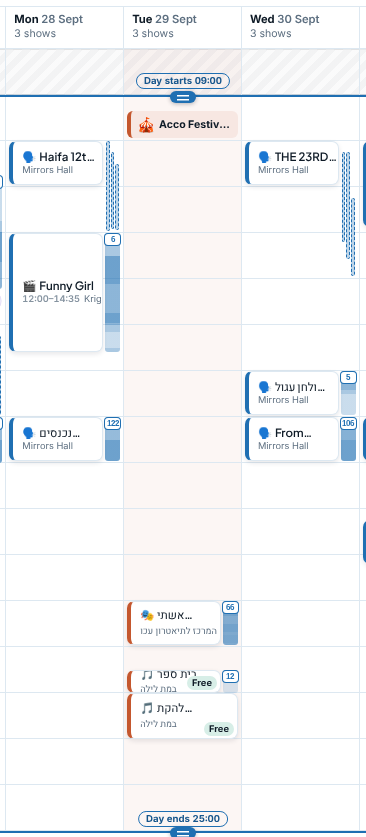
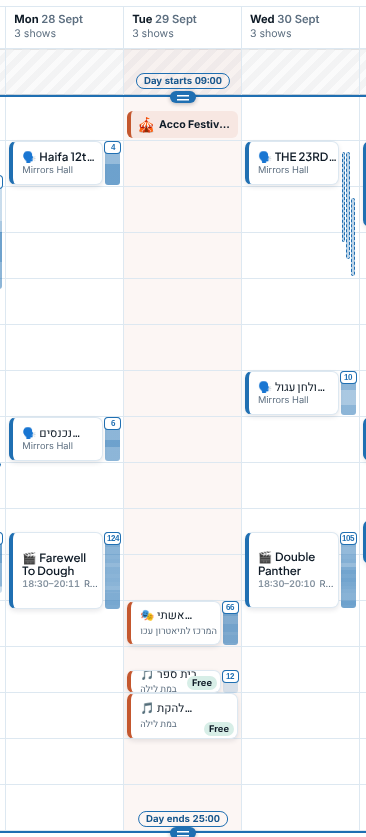
Spread a capped day's shows across its hours
With a low shows-per-day limit the drafter broke ties between equally
scarce shows by the earlier start, so a two-a-day plan came out as 09:30
and 11:30 and nothing after. Each capped day's programme span is now cut
into one part per place, and each run of equally scarce shows fills empty
parts first, then any room left. Scarcity still outranks the spread, and
an early day end remains the reader's own setting.

New leaf 20.22 with its logic case; eight planner goldens re-rendered.

Claude-Session: https://claude.ai/code/session_01TUZcqythbmcUDWeo6Uqzy3

diff --git a/product/requirements/logic/cases/planng-spread-day.20.22.case.js b/product/requirements/logic/cases/planng-spread-day.20.22.case.js
@@ -1,0 +1,87 @@
+"use strict";
+
+// A programme dense enough that the old earliest-first tie-break would fill a
+// short day from the morning alone: a show every ninety minutes from 10:00 to
+// 22:00, every night of the window.
+const START_TIMES = ["10:00", "11:30", "13:00", "14:30", "16:00", "17:30", "19:00", "20:30", "22:00"];
+const NIGHTS = ["2026-10-18", "2026-10-19", "2026-10-20"];
+
+const show = (slug, nights, start) => ({
+  slug,
+  title: slug,
+  duration: 60,
+  venue: "H",
+  venueName: "H",
+  performances: nights.map((date) => ({ date, start, status: "TICKETS_AVAILABLE", soldOut: false })),
+});
+
+const toMin = (hhmm) => {
+  const [h, m] = hhmm.split(":").map(Number);
+  return h * 60 + m;
+};
+
+module.exports = {
+  description: "a day with room for few shows spreads them across its hours",
+  async verify(assert) {
+    const { draftCalendar } = await import("../../../../site/plan/lib/contention.js");
+    const programme = [];
+    START_TIMES.forEach((start, i) => {
+      for (let n = 0; n < 4; n++) programme.push(show(`s${i}-${n}`, NIGHTS, start));
+    });
+    const draft = (shows, extra = {}) =>
+      draftCalendar(shows, {
+        dateStart: NIGHTS[0],
+        dateEnd: NIGHTS[NIGHTS.length - 1],
+        dayStartMin: 9 * 60,
+        dayEndMin: 25 * 60,
+        minGapSameVenue: 0,
+        minGapDifferentVenue: 30,
+        travelMode: "walk",
+        venueCoords: { H: { lat: 31.7806, lng: 35.2226 } },
+        ...extra,
+      });
+    const startsOn = (result, date) =>
+      (result.days.find((d) => d.date === date) || { slots: [] }).slots.map((s) => toMin(s.startTime));
+
+    // Two a day: one in each half of the programme's hours, not both before noon.
+    const two = draft(programme, { maxPerDay: 2 });
+    for (const date of NIGHTS) {
+      const starts = startsOn(two, date);
+      assert.equal(starts.length, 2, `${date} still takes two shows`);
+      assert.ok(starts[0] < toMin("16:00") && starts[1] >= toMin("16:00"), `${date} spreads its two: ${starts}`);
+    }
+
+    // Three a day: one in each third.
+    const three = draft(programme, { maxPerDay: 3 });
+    for (const date of NIGHTS) {
+      const starts = startsOn(three, date);
+      assert.equal(starts.length, 3, `${date} still takes three shows`);
+      const thirds = starts.map((m) => Math.min(2, Math.floor(((m - toMin("10:00")) * 3) / (toMin("22:00") - toMin("10:00") + 1))));
+      assert.deepEqual(thirds, [0, 1, 2], `${date} has one show in each third: ${starts}`);
+    }
+
+    // An early end is the reader's to set, and the spread works within it.
+    const early = draft(programme, { maxPerDay: 2, dayEndMin: 15 * 60 + 30 });
+    for (const date of NIGHTS) {
+      const starts = startsOn(early, date);
+      assert.equal(starts.length, 2);
+      assert.ok(starts.every((m) => m + 60 <= 15 * 60 + 30), `${date} ends by the reader's day end: ${starts}`);
+    }
+
+    // Scarcity still comes first: two one-night shows in the same morning both
+    // take their hours, and the spread only chooses among the rest.
+    const rareA = show("rare-a", [NIGHTS[0]], "10:00");
+    const rareB = show("rare-b", [NIGHTS[0]], "11:30");
+    const withRare = draft([rareA, rareB, ...programme], { maxPerDay: 3 });
+    assert.equal(withRare.picked.get("rare-a"), `${NIGHTS[0]}T10:00`);
+    assert.equal(withRare.picked.get("rare-b"), `${NIGHTS[0]}T11:30`);
+    const rest = startsOn(withRare, NIGHTS[0]).filter((m) => m > toMin("11:30"));
+    assert.equal(rest.length, 1, "the day's third show comes from the rest");
+    assert.ok(rest[0] >= toMin("14:00"), `and it goes to a part of the day nothing holds yet: ${rest}`);
+
+    // A programme with only a morning still fills the day to its cap.
+    const morning = programme.filter((s) => toMin(s.performances[0].start) < toMin("13:00"));
+    const onlyMorning = draft(morning, { maxPerDay: 2 });
+    for (const date of NIGHTS) assert.equal(startsOn(onlyMorning, date).length, 2);
+  },
+};

diff --git a/site/plan/lib/contention.js b/site/plan/lib/contention.js
@@ -30,7 +30,8 @@ export function instanceKey(slug, key) {
 }
 
 /**
- * The order contenders are ranked in, and the whole of the selection rule:
+ * The order contenders are ranked in, and with a capped day's spread (see
+ * draftCalendar) the whole of the selection rule:
  * fewest performances of its own first, then the earlier start, then the
  * earlier finish, then the slug — the last three only so that two shows of
  * equal scarcity draft the same way every time.
@@ -194,10 +195,32 @@ export function draftCalendar(shows, options = {}) {
   const freedom = new Map();
   for (const [slug, slots] of pool) freedom.set(slug, slots.length);
 
+  // A day held to fewer shows than it could fit is shared out between its
+  // places: the hours the day's programme spans are cut into one part per
+  // place, each taken by one show before any takes a second. Left to the clock
+  // alone, a short day would fill from the morning.
+  const parts = Number.isFinite(maxPerDay) && maxPerDay > 0 ? maxPerDay : 0;
+  const spans = new Map();
+  for (const slots of pool.values()) {
+    for (const s of slots) {
+      const span = spans.get(s.date);
+      if (!span) spans.set(s.date, { first: s.startMinuteOfDay, last: s.startMinuteOfDay });
+      else {
+        span.first = Math.min(span.first, s.startMinuteOfDay);
+        span.last = Math.max(span.last, s.startMinuteOfDay);
+      }
+    }
+  }
+  const partOf = (slot) => {
+    if (!parts) return 0;
+    const { first, last } = spans.get(slot.date);
+    return Math.min(parts - 1, Math.floor(((slot.startMinuteOfDay - first) * parts) / (last - first + 1)));
+  };
+
   const candidates = [];
   for (const [slug, slots] of pool) {
     for (const slot of slots) {
-      candidates.push({ ...slot, freedom: freedom.get(slug), contenders: [], verdict: null });
+      candidates.push({ ...slot, freedom: freedom.get(slug), part: partOf(slot), contenders: [], verdict: null });
     }
   }
   candidates.sort(byScarcity);
@@ -227,11 +250,30 @@ export function draftCalendar(shows, options = {}) {
   // asked for by name — overrides; a favourite says you want the show, not that
   // it outranks the day you described. `tasteCap` is the limit on shows from
   // outside your kinds, which neither verdict is held to.
+  //
+  // Each run of equally scarce candidates is taken twice: first only into the
+  // parts of a day nothing holds yet, then into whatever room is left, so the
+  // spread never leaves a day short and never outranks scarcity.
   const sweep = (list, verdict, dayCap, tasteCap) => {
+    if (!dayCap || !parts) {
+      take(list, verdict, dayCap, tasteCap, false);
+      return;
+    }
+    for (let i = 0; i < list.length; ) {
+      let j = i;
+      while (j < list.length && list[j].freedom === list[i].freedom) j++;
+      const run = list.slice(i, j);
+      take(run, verdict, dayCap, tasteCap, true);
+      take(run, verdict, dayCap, tasteCap, false);
+      i = j;
+    }
+  };
+  const take = (list, verdict, dayCap, tasteCap, spread) => {
     for (const cand of list) {
       if (placedShows.has(cand.slug)) continue;
       const sameDay = perDay.get(cand.date) || [];
       if (dayCap && sameDay.length >= maxPerDay) continue;
+      if (spread && sameDay.some((c) => c.part === cand.part)) continue;
       if (
         tasteCap &&
         !preferred.has(cand.slug) &&

diff --git a/product/requirements.md b/product/requirements.md
@@ -1375,6 +1375,22 @@ rather than as a control panel.
   against every answer.
   </details>
 
+- `20.22` A day held to fewer shows than it could fit spreads them across its hours, rather than packing the earliest.
+
+  🔧 _Logic leaf._ <!-- req-gallery:20.22 -->
+
+  <details><summary>Notes</summary>
+
+  How many shows a day takes is a question of pace, not of when the day ends:
+  a reader who asks for two shows a day has not asked to be done by lunch. So
+  among shows equally scarce, the hours the day's programme spans are shared
+  out between its places, and each part of the day takes a show before any
+  takes a second. Scarcity still comes first — a show with fewer nights
+  takes its hour whatever part of the day it is in — and a reader who wants the
+  day to end early says so with the day's end, which the spread then works
+  within.
+  </details>
+
 - `20.13` A show with no picture leads its popup with its kind's emoji on its festival's colour.
 
   ![planng-no-picture.20.13](requirements/screen/cases/planng-no-picture.20.13.png) <!-- req-gallery:20.13 -->
